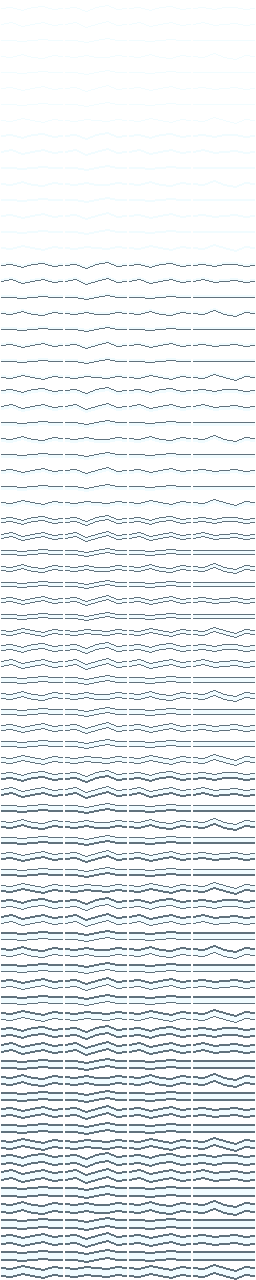
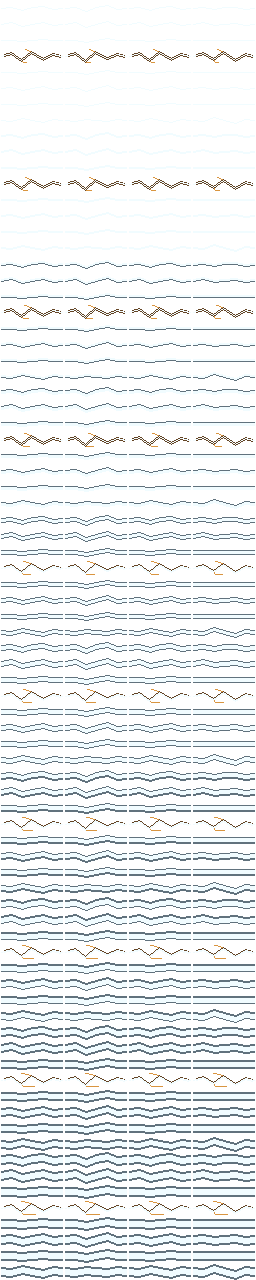
Give heavy lightning strikes a slender white core and branching silhouette

diff --git a/tests/graphics.test.ts b/tests/graphics.test.ts
@@ -461,7 +461,7 @@ test('damage-tier beam artwork grows in actual ink, stays attached and remains b
         previous = pixels.length;
         assert.ok(pixels.length <= 800, 'Even the strongest hit must leave negative space');
         for (const x of [left + 1, left + 62])
-          assert.equal(pixels.filter(([px]) => px === x).length, tier + 1);
+          assert.equal(pixels.filter(([px]) => px === x).length, row === 3 ? 1 : tier + 1);
         const cells = new Set(pixels.map(([x, y]) => `${x},${y}`));
         const seen = new Set<string>();
         const queue = [[left + 1, top + 8]];
@@ -477,6 +477,33 @@ test('damage-tier beam artwork grows in actual ink, stays attached and remains b
         assert.ok(cells.has(`${left + 62},${top + 8}`), 'Keep the endpoint anchored');
       }
     }
+});
+
+test('strike artwork keeps a slender white trunk and stronger golden forks instead of a solid slab', () => {
+  const sheet = effectArtwork().find((s) => s.output.endsWith('/beams.png'))!;
+  for (let tier = 0; tier < 10; tier++) {
+    for (let frame = 0; frame < 4; frame++) {
+      const top = (tier * 8 + 3) * 16,
+        left = frame * 64;
+      const pixels = sheet.pixels.filter(
+        ([x, y]) => x >= left && x < left + 64 && y >= top && y < top + 16,
+      );
+      const core = pixels.filter(([, , shade]) => shade === 6);
+      const fork = pixels.filter(([, , shade]) => shade === 5);
+      assert.ok(core.length >= 60 && fork.length >= 8);
+      assert.ok(pixels.length < 300, 'Even high-damage strikes must leave clear negative space');
+      for (let x = left; x < left + 64; x++) {
+        assert.ok(
+          core.filter(([px]) => px === x).length <= 2,
+          'The bright trunk cannot become a yellow bar',
+        );
+      }
+      assert.ok(
+        Math.max(...core.map(([, y]) => y)) - Math.min(...core.map(([, y]) => y)) >= 7,
+        'Keep sharp lightning bends',
+      );
+    }
+  }
 });
 
 test('equal single-hit damage keeps beam thickness and brightness across all skill levels', () => {

diff --git a/src/render/ElectronScene.ts b/src/render/ElectronScene.ts
@@ -415,19 +415,18 @@ export class ElectronScene extends Phaser.Scene {
     beam: (id, from, to, progress, color, alpha, height, strength) => {
       const pose = beamPose(this.screen(from), this.screen(to));
       if (pose.length < 1) return;
-      this.sprites
-        .draw(
-          pose,
-          'beams',
-          pose.length / 64,
-          alpha,
-          1,
-          beamFrame(id, progress, strength),
-          pose.angle,
-          height / 16,
-        )
-        .setTintMode(Phaser.TintModes.MULTIPLY)
-        .setTint(color);
+      const beam = this.sprites.draw(
+        pose,
+        'beams',
+        pose.length / 64,
+        alpha,
+        1,
+        beamFrame(id, progress, strength),
+        pose.angle,
+        height / 16,
+      );
+      if (id === 'strike') beam.clearTint();
+      else beam.setTintMode(Phaser.TintModes.MULTIPLY).setTint(color);
     },
     contact: (point, color, alpha, radius) => {
       const screen = this.screen(point);
